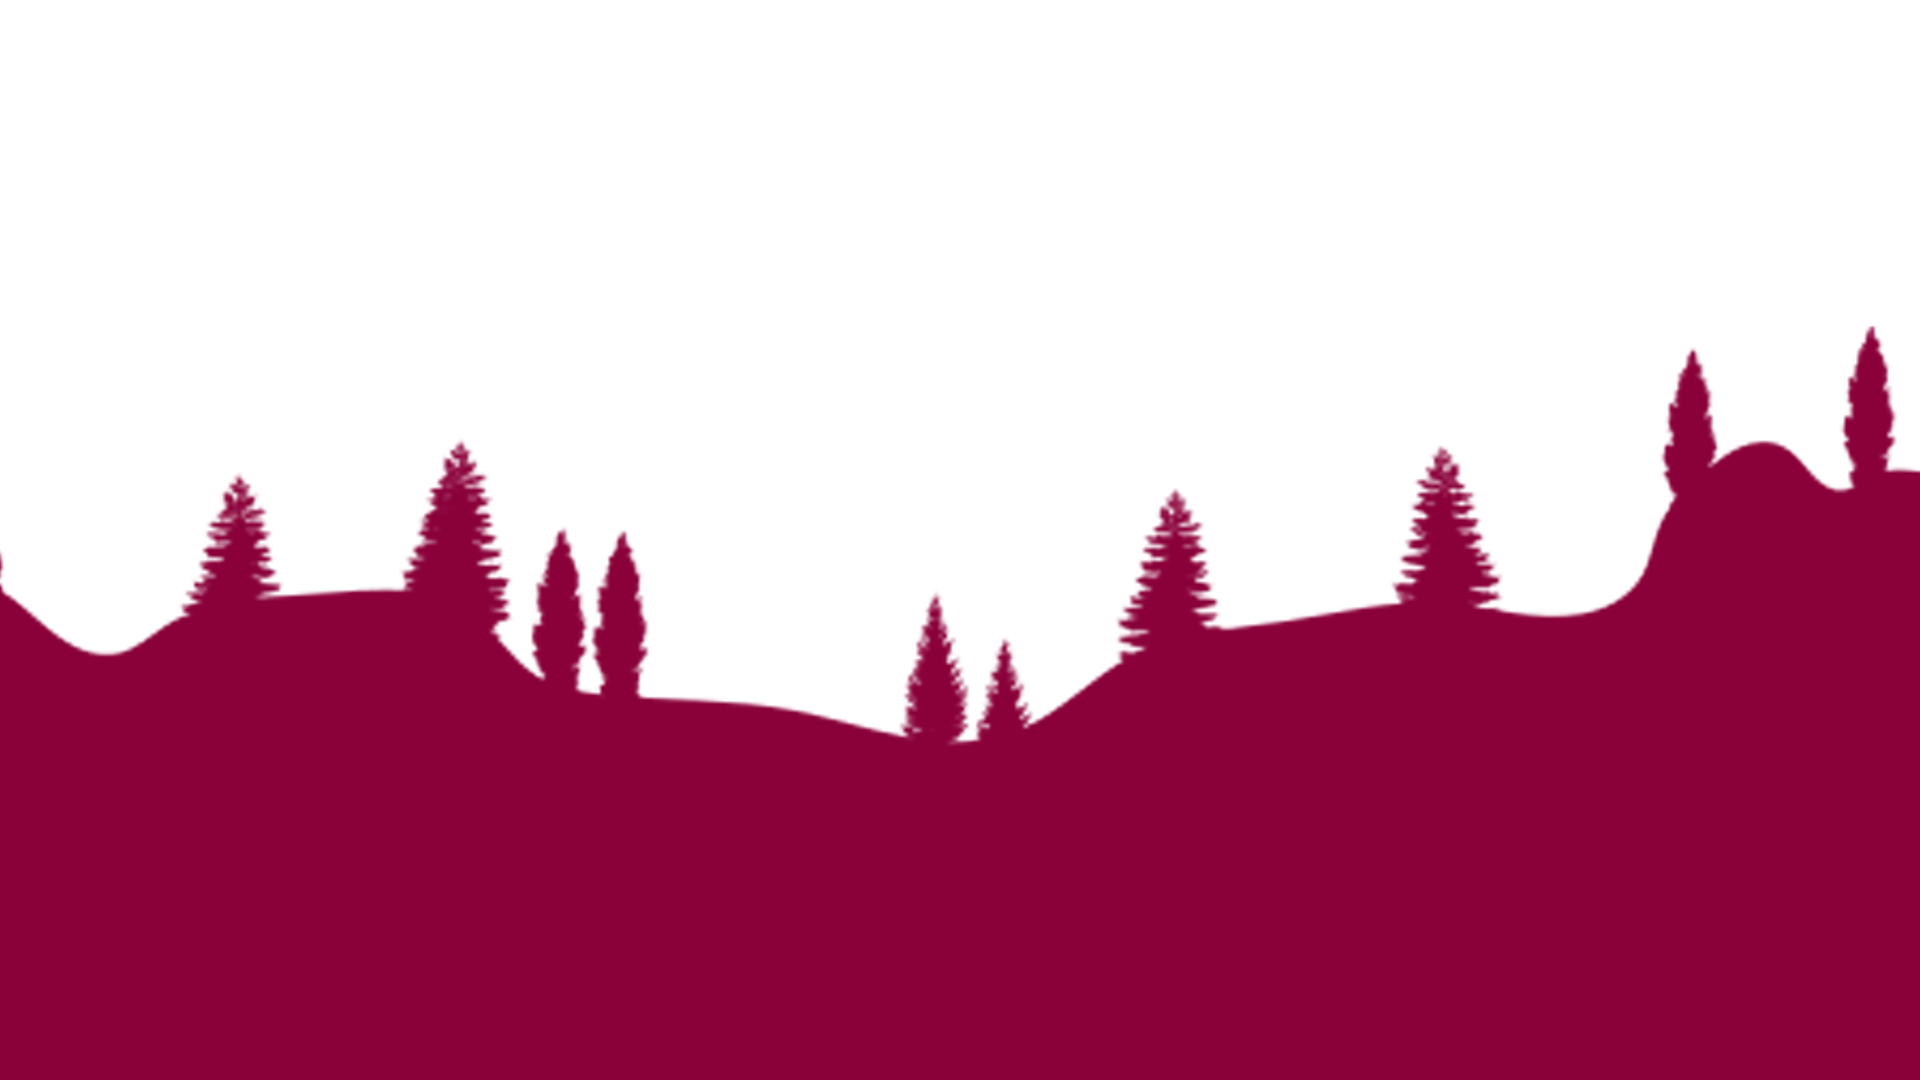
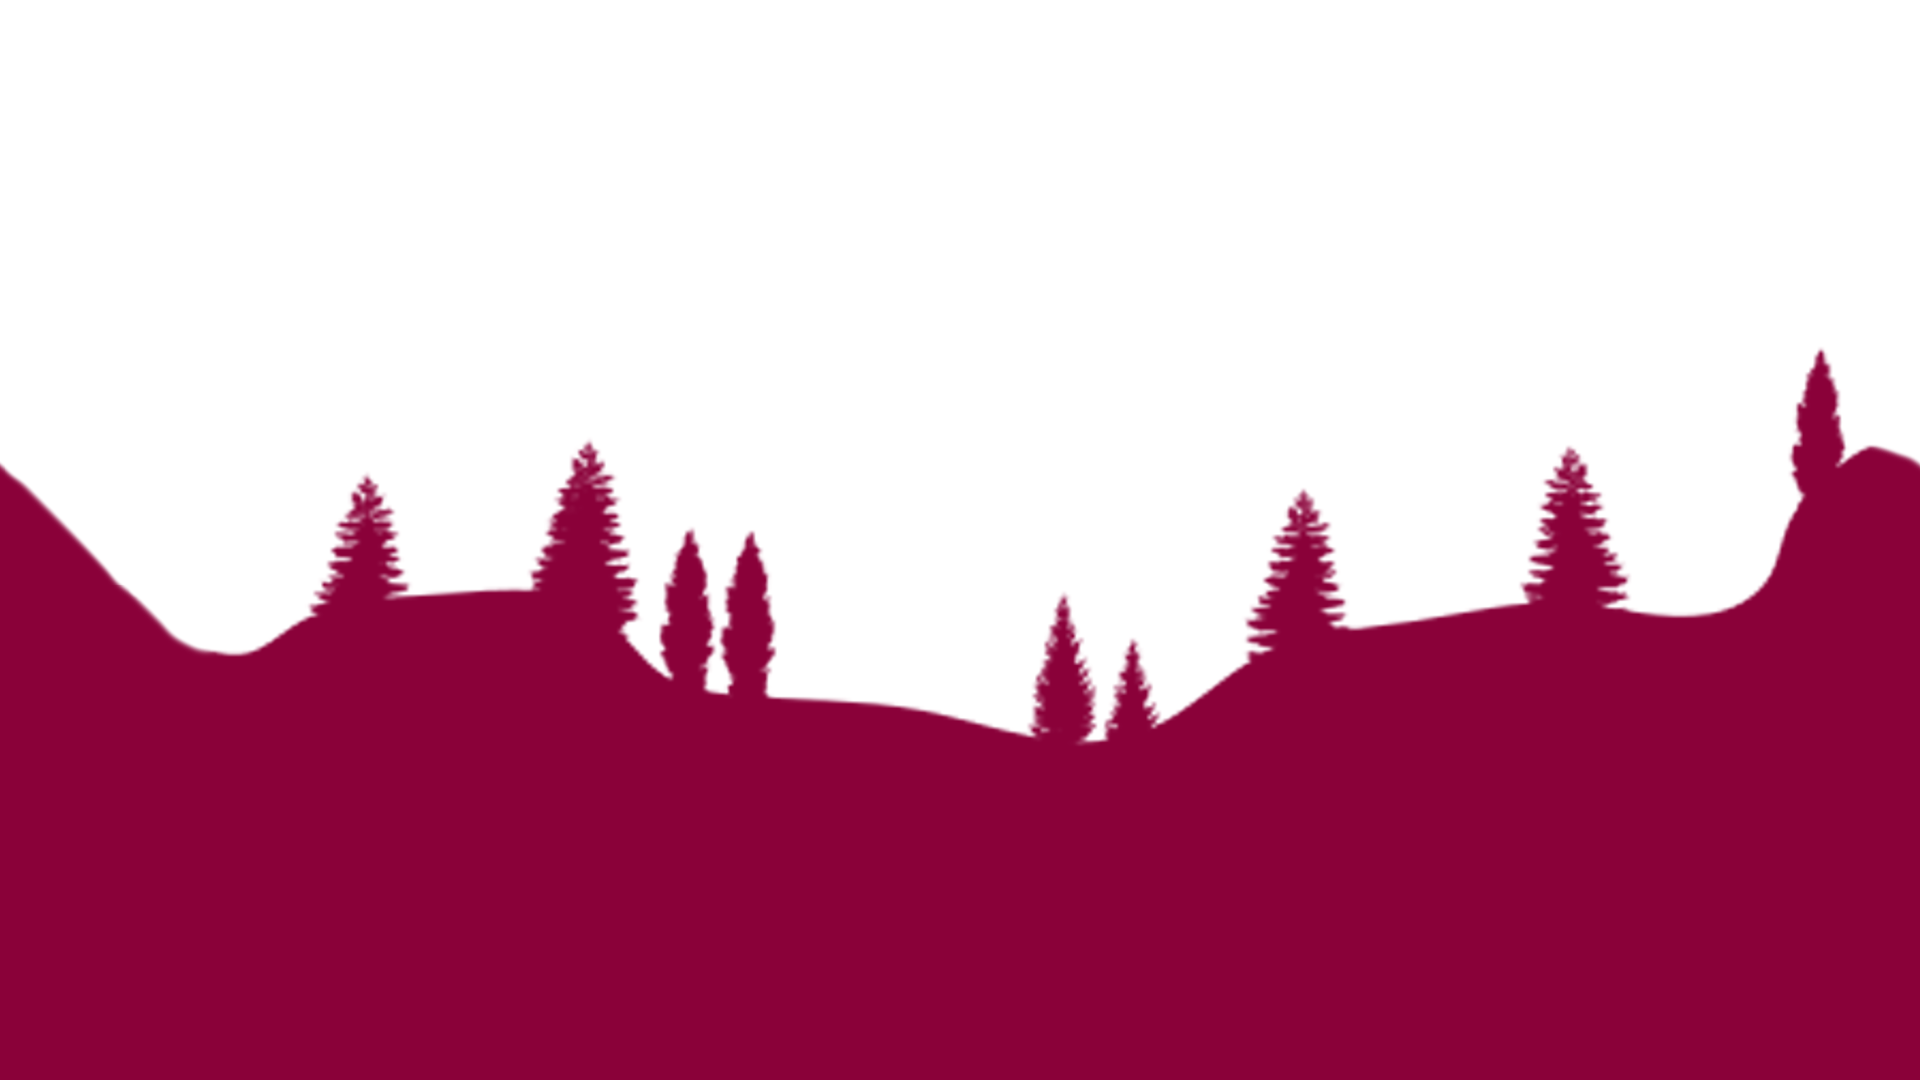
upg final

Changed region(s): [[0.0, 0.3056, 1.0, 0.7028]]

diff --git a/playsamorai/index.html b/playsamorai/index.html
@@ -1,5 +1,5 @@
 <!DOCTYPE html>
-<html lang="en" data-lt-installed="true">
+<html lang="en">
 
 <head>
     <!-- Google tag (gtag.js) -->
@@ -32,14 +32,14 @@
     <meta property="og:url" content="https://tanoka.studio/playsamorai/" />
     <meta property="og:title" content="Download SamORai" />
     <meta property="og:description" content="Download and play now the latest game from Tanoka Studio" />
-    <meta property="og:image" content="/playsamorai/header.png" />
+    <meta property="og:image" content="https://tanoka.studio/playsamorai/header.png" />
 
     <!-- Twitter -->
     <meta property="twitter:card" content="summary_large_image" />
     <meta property="twitter:url" content="https://tanoka.studio/playsamorai/" />
     <meta property="twitter:title" content="Download SamORai" />
     <meta property="twitter:description" content="Download and play now the latest game from Tanoka Studio" />
-    <meta property="twitter:image" content="/playsamorai/header.png" />
+    <meta property="twitter:image" content="https://tanoka.studio/playsamorai/header.png" />
 
 
     <link rel="icon" type="image/png" href="Face.png">
@@ -66,24 +66,6 @@
         overflow: hidden;
     }
 
-    background-image {
-        position: absolute;
-        top: 0;
-        left: 0;
-        right: 0;
-        bottom: 0;
-        width: 100vw;
-        height: 100vh;
-        overflow: hidden;
-        margin: 0;
-        padding: 0;
-        background-color: #260d25;
-    }
-
-    background-image>* {
-        filter: drop-shadow(-5px -5px 5px #2228);
-        width: 120%;
-    }
 
     play-now-container {
         position: absolute;
@@ -100,13 +82,15 @@
 
     play-now-container>* {
         display: block;
-        filter: drop-shadow(5px 5px 5px #2228);
+        filter: drop-shadow(5px 5px 2px #2222);
     }
 
     h1 {
         margin: 0;
         padding: 0;
-        font-size: 10vh;
+        font-size: 8vh;
+        border-top: 0.5vh dashed black;
+        border-bottom: 0.5vh dashed black;
     }
 
     .link {
@@ -122,61 +106,80 @@
 
 <style>
     .parallax-wrap {
-        background-color: #260C25;
+        //background-color: #260C25;
         position: absolute;
         width: 100vw;
-        height: 80vh;
+        height: 100vh;
         overflow: hidden;
         display: flex;
         justify-content: center;
         align-items: center;
         margin: 0;
+        top: 0;
     }
 
-    .parallax-wrap img {
-        background-color: #ffdbc30f;
-        padding-top: 150px;
+    .parallax-wrap span {
+
         position: absolute;
-        width: 105vw;
-        height: auto;
+        display: block;
+        width: 120vw;
+        height: 100%;
         pointer-events: none;
-        bottom: 0;
-        filter: blur(0.5px);
+        filter: blur(1px);
+        background-size: contain;
+        background-repeat: repeat-x;
+        background-position: bottom 20% center;
+        background-attachment: fixed;
     }
 
-    .parallax-wrap img:first-child {
-        padding-top: 0;
-        top: 0px;
-        left: 0px;
-        height: 100%
+    .parallax-wrap span:first-child {
+        background-repeat: repeat;
+        background-size: fill;
+        filter: blur(0);
+        background-image: url('parallax/bk_001.png');
     }
 
-    .parallax-wrap img:nth-child(6) {}
+    .parallax-wrap span:nth-child(2) {
+        background-image: url('parallax/bk_002.png');
+        background-color: #ffdbc30f;
 
-    .parallax-wrap img:nth-child(7) {
-        width: 110vw;
+    }
+
+    .parallax-wrap span:nth-child(3) {
+        background-image: url('parallax/bk_003.png');
+        background-color: #ffdbc30f;
+    }
+
+    .parallax-wrap span:nth-child(4) {
+        background-image: url('parallax/bk_004.png');
+        background-color: #ffdbc30f;
+    }
+
+    .parallax-wrap span:nth-child(5) {
+        background-image: url('parallax/bk_005.png');
+        background-color: #ffdbc30f;
+    }
+
+    .parallax-wrap span:nth-child(6) {
+        background-image: url('parallax/bk_006.png');
+        filter: blur(0.3);
+        background-size: cover 90vh;
+        background-color: #ffdbc30f;
+    }
+
+    .parallax-wrap span:nth-child(7) {
+        background-image: url('parallax/bk_007.png');
+        filter: blur(0);
         z-index: 3;
+        background-size: cover 150vh;
+        //background-color: #ffdbc30f;
     }
 </style>
 
 <body>
-    <background-image hidden id="scene" data-origin-y="1" data-origin-x="0">
-
-        <img data-depth="0" src="./parallax/bk_001.png" />
-
-        <img data-depth="0.05" src="./parallax/bk_002.png" />
 
 
-        <img data-depth="0.1" src="./parallax/bk_003.png" />
-        <img data-depth="0.3" src="./parallax/bk_004.png" />
-        <img data-depth="0.5" src="./parallax/bk_005.png" />
-        <img data-depth="1" src="./parallax/bk_006.png" />
-
-        <img data-depth="1.5" src="./parallax/bk_007.png" />
-
-    </background-image>
-
-    <div class="parallax-wrap">
+    <!--div hide class="parallax-wrap">
         <img src="parallax/bk_001.png" value="0" />
         <img src="parallax/bk_002.png" value="0.2" />
         <img src="parallax/bk_003.png" value="0.3" />
@@ -184,6 +187,17 @@
         <img src="parallax/bk_005.png" value="1" />
         <img src="parallax/bk_006.png" value="2" />
         <img src="parallax/bk_007.png" value="5" />
+    </div-->
+    <div class="parallax-wrap">
+        <span value="0"></span>
+        <span value="0.2"></span>
+        <span value="0.3"> </span>
+        <span value="0.6"> </span>
+        <span value="1"> </span>
+        <span value="2"> </span>
+        <span value="5"> </span>
+        <span value="5"
+            style="background-color:#260C25; position:absolute; bottom: 0;height: 15%; width: 150vw;"></span>
     </div>
 
     <play-now-container>
@@ -192,7 +206,7 @@
             <center>
                 <a href='https://play.google.com/store/apps/details?id=com.tanokastudio.samorai&pcampaignid=pcampaignidMKT-Other-global-all-co-prtnr-py-PartBadge-Mar2515-1'
                     target="_blank">
-                    <img style="max-width:90%;max-height:80%;" alt='Get it on Google Play'
+                    <img style="max-width:80%;max-height:80%;" alt='Get it on Google Play'
                         src='https://play.google.com/intl/en_us/badges/static/images/badges/en_badge_web_generic.png' /></a>
             </center>
         </play-button>
@@ -211,7 +225,7 @@
     document.addEventListener("mousemove", parallax);
     function parallax(event) {
         const multiplier = 10;
-        document.querySelectorAll(".parallax-wrap img").forEach((shift) => {
+        document.querySelectorAll(".parallax-wrap span").forEach((shift) => {
             const position = shift.getAttribute("value");
             const x = multiplier * (diff(window.innerWidth / 2.0, event.pageX) / window.innerWidth) * position;
             const y = multiplier / 2 * (diff(window.innerHeight, event.pageY) / window.innerHeight) * position;
@@ -219,7 +233,7 @@
             shift.style.transform = `translateX(${x}px) translateY(${y}px)`;
         });
     }
-    var initialGyroX = null;
+    /*var initialGyroX = null;
     var initialGyroY = null;
     function orientation(event) {
         var gyroX = event.gamma;
@@ -246,14 +260,49 @@
         window.addEventListener("deviceorientation", orientation, false);
     } else {
         console.log("DeviceOrientationEvent is not supported");
-    }
+    }*/
 
-    const sensor = new AbsoluteOrientationSensor();
+    /*const sensor = new AbsoluteOrientationSensor();
     sensor.start();
     sensor.addEventListener("error", (error) => {
         if (event.error.name === "SecurityError")
             console.log("No permissions to use AbsoluteOrientationSensor.");
-    });
+    });*/
+    window.addEventListener("deviceorientation", parallaxPhone);
+
+    function parallaxPhone(event) {
+        console.log(event)
+        const multiplier = 20;
+        document.querySelectorAll(".parallax-wrap span").forEach((shift) => {
+            const position = shift.getAttribute("value");
+
+            // Obtener los valores del giroscopio
+            let gamma = event.gamma *4; // Inclinación izquierda/derecha
+            let beta = event.beta *4; // Inclinación adelante/atrás
+
+            // Ajustar los valores del giroscopio para que funcionen correctamente
+            if (window.innerWidth > window.innerHeight) {
+                // Landscape mode
+                [gamma, beta] = [beta, -gamma];
+            } else {
+                // Portrait mode
+                [gamma, beta] = [-gamma, beta];
+            }
+
+            // Calcular los valores de desplazamiento
+            const x = multiplier * (diff(window.innerWidth / 2.0, gamma) / window.innerWidth) * position;
+            const y = multiplier / 2 * (diff(window.innerHeight, beta) / window.innerHeight) * position;
+            console.log('xy',x,y)
+            shift.style.transform = `translateX(${x}px) translateY(${y}px)`;
+        });
+    }
+
+
+
+
+
+
+
 </script>
 
 </html>
